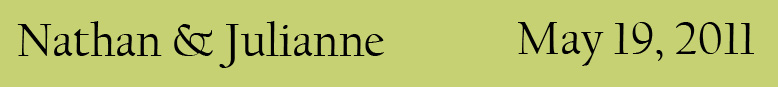
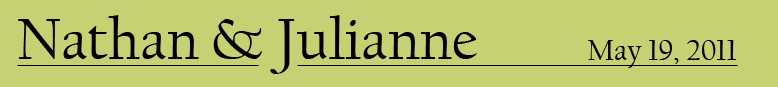
new header and form colors

Changed region(s): [[0.0, 0.1609, 0.9871, 0.8506]]

diff --git a/app/assets/stylesheets/pages.css.scss b/app/assets/stylesheets/pages.css.scss
@@ -76,11 +76,11 @@ header#mainHeader ul li a.this {
 
 header#mainHeader ul li.this {
 	color: black;
-  font-weight:bold;
+  	font-weight:bold;
 	border-left: 2px solid #000;
 	border-right: 2px solid #000;
 	border-top: 2px solid #000;
-  border-bottom: 3px solid #EFF2D3;
+  	border-bottom: 3px solid #EFF2D3;
 	-moz-border-radius-topright: 20px;
 	border-top-right-radius: 20px;
 	-moz-border-radius-topleft: 20px;
@@ -118,7 +118,7 @@ header#mainHeader ul li.this {
 
 .leg {
 	border: 4px double #879428;
-	background: #FF9;
+	background: #efefa8;
 	border-radius: 8px;
 	-webkit-border-radius: 8px;
 	-moz-border-radius: 8px;
@@ -137,19 +137,19 @@ fieldset.leg legend {
 }
 
 fieldset.questions legend {
-	border: 1px solid #879428;
-	background: #FFFFF0;
-	border-radius: 8px;
-	-webkit-border-radius: 8px;
-	-moz-border-radius: 8px;
-	padding: 6px;
+	border: 0px;
+	background: none;
+	border-radius: 0px;
+	-webkit-border-radius: 0px;
+	-moz-border-radius: 0px;
+	padding: 0px;
 
 }
 
 .questions {
 	width: 200px;
 	border: 1px solid #879428;
-	background: #FF9;
+	background: #efefa8;
 	border-radius: 8px;
 	-webkit-border-radius: 8px;
 	-moz-border-radius: 8px;
@@ -159,9 +159,9 @@ fieldset.questions legend {
 
 input[type="submit"]
 {
-	color: #000;
-	background: #ffa20f;
-	border: 2px outset #d7b9c9;
+	color: black;
+	background: #C6D173;
+	border: 2px outset #879428;
 	width: 150px;
 	border-radius: 8px;
 	-webkit-border-radius: 8px;
@@ -207,18 +207,21 @@ footer {
 }
 
 #add {
+	color: black;
+	margin-top: 20px;
  
 }
 
 #remove {
   clear: both;
   display: block;
+  margin-top: 20px;
+  color: black;
 }
 
 .guest-name {
   margin-right: 10px;
-  position: relative;
-  top: 45px;
+  margin-top: 20px;
 }
 
 #daisy {
@@ -228,6 +231,16 @@ footer {
   left: 25px;
   top: 15px
 
+}
+
+#line {
+  	border: 0;
+	height: 1px; 
+	color: #C6D173;
+	background-color: #C6D173;
+	margin-top: 20px;
+	width: 90%;
+	text-align: center;
 }
 
 
